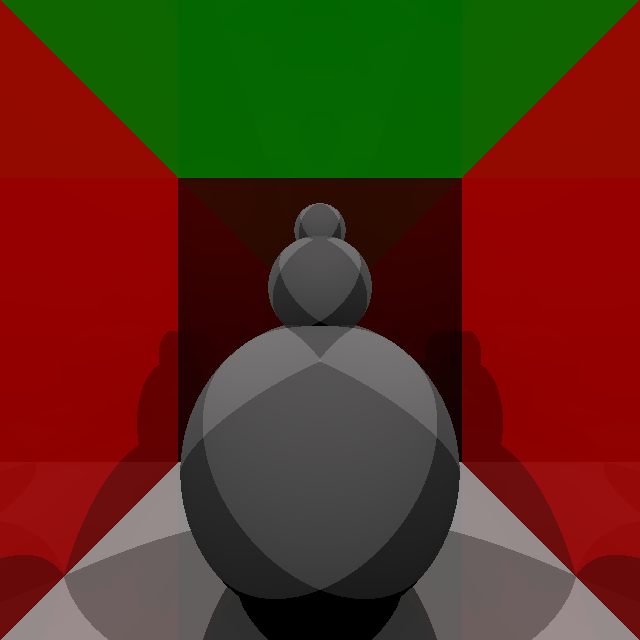
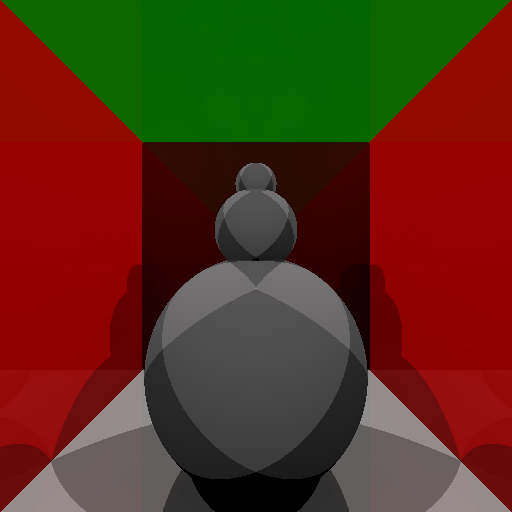
macros

diff --git a/main.cpp b/main.cpp
@@ -11,14 +11,15 @@
 #include "omp.h"
 #define cout std::cout
 #define endl std::endl
-
-int image[640][640][3];
+#define WIDTH 512
+#define HEIGHT 512
+int image[HEIGHT][WIDTH][3];
 int main(){
 
     double R = 5;
     Axes xyz = Axes();
-    int width = 640;
-    int height = 640;
+    int width = WIDTH;
+    int height = HEIGHT;
     int id = 1;
 
     xyz.setAxes(glm::dvec3(1,0,0),glm::dvec3(0,1,0),glm::dvec3(0,0,1));

diff --git a/loadImage.py b/loadImage.py
@@ -8,7 +8,7 @@ data = np.array(data,dtype=np.uint8)
 data = data[0]
 unique_values = np.unique(data)
 
-data = data.reshape(640,640,3)
+data = data.reshape(512,512,3)
 
 # for i in range (320):
 #     for j in range (100):
